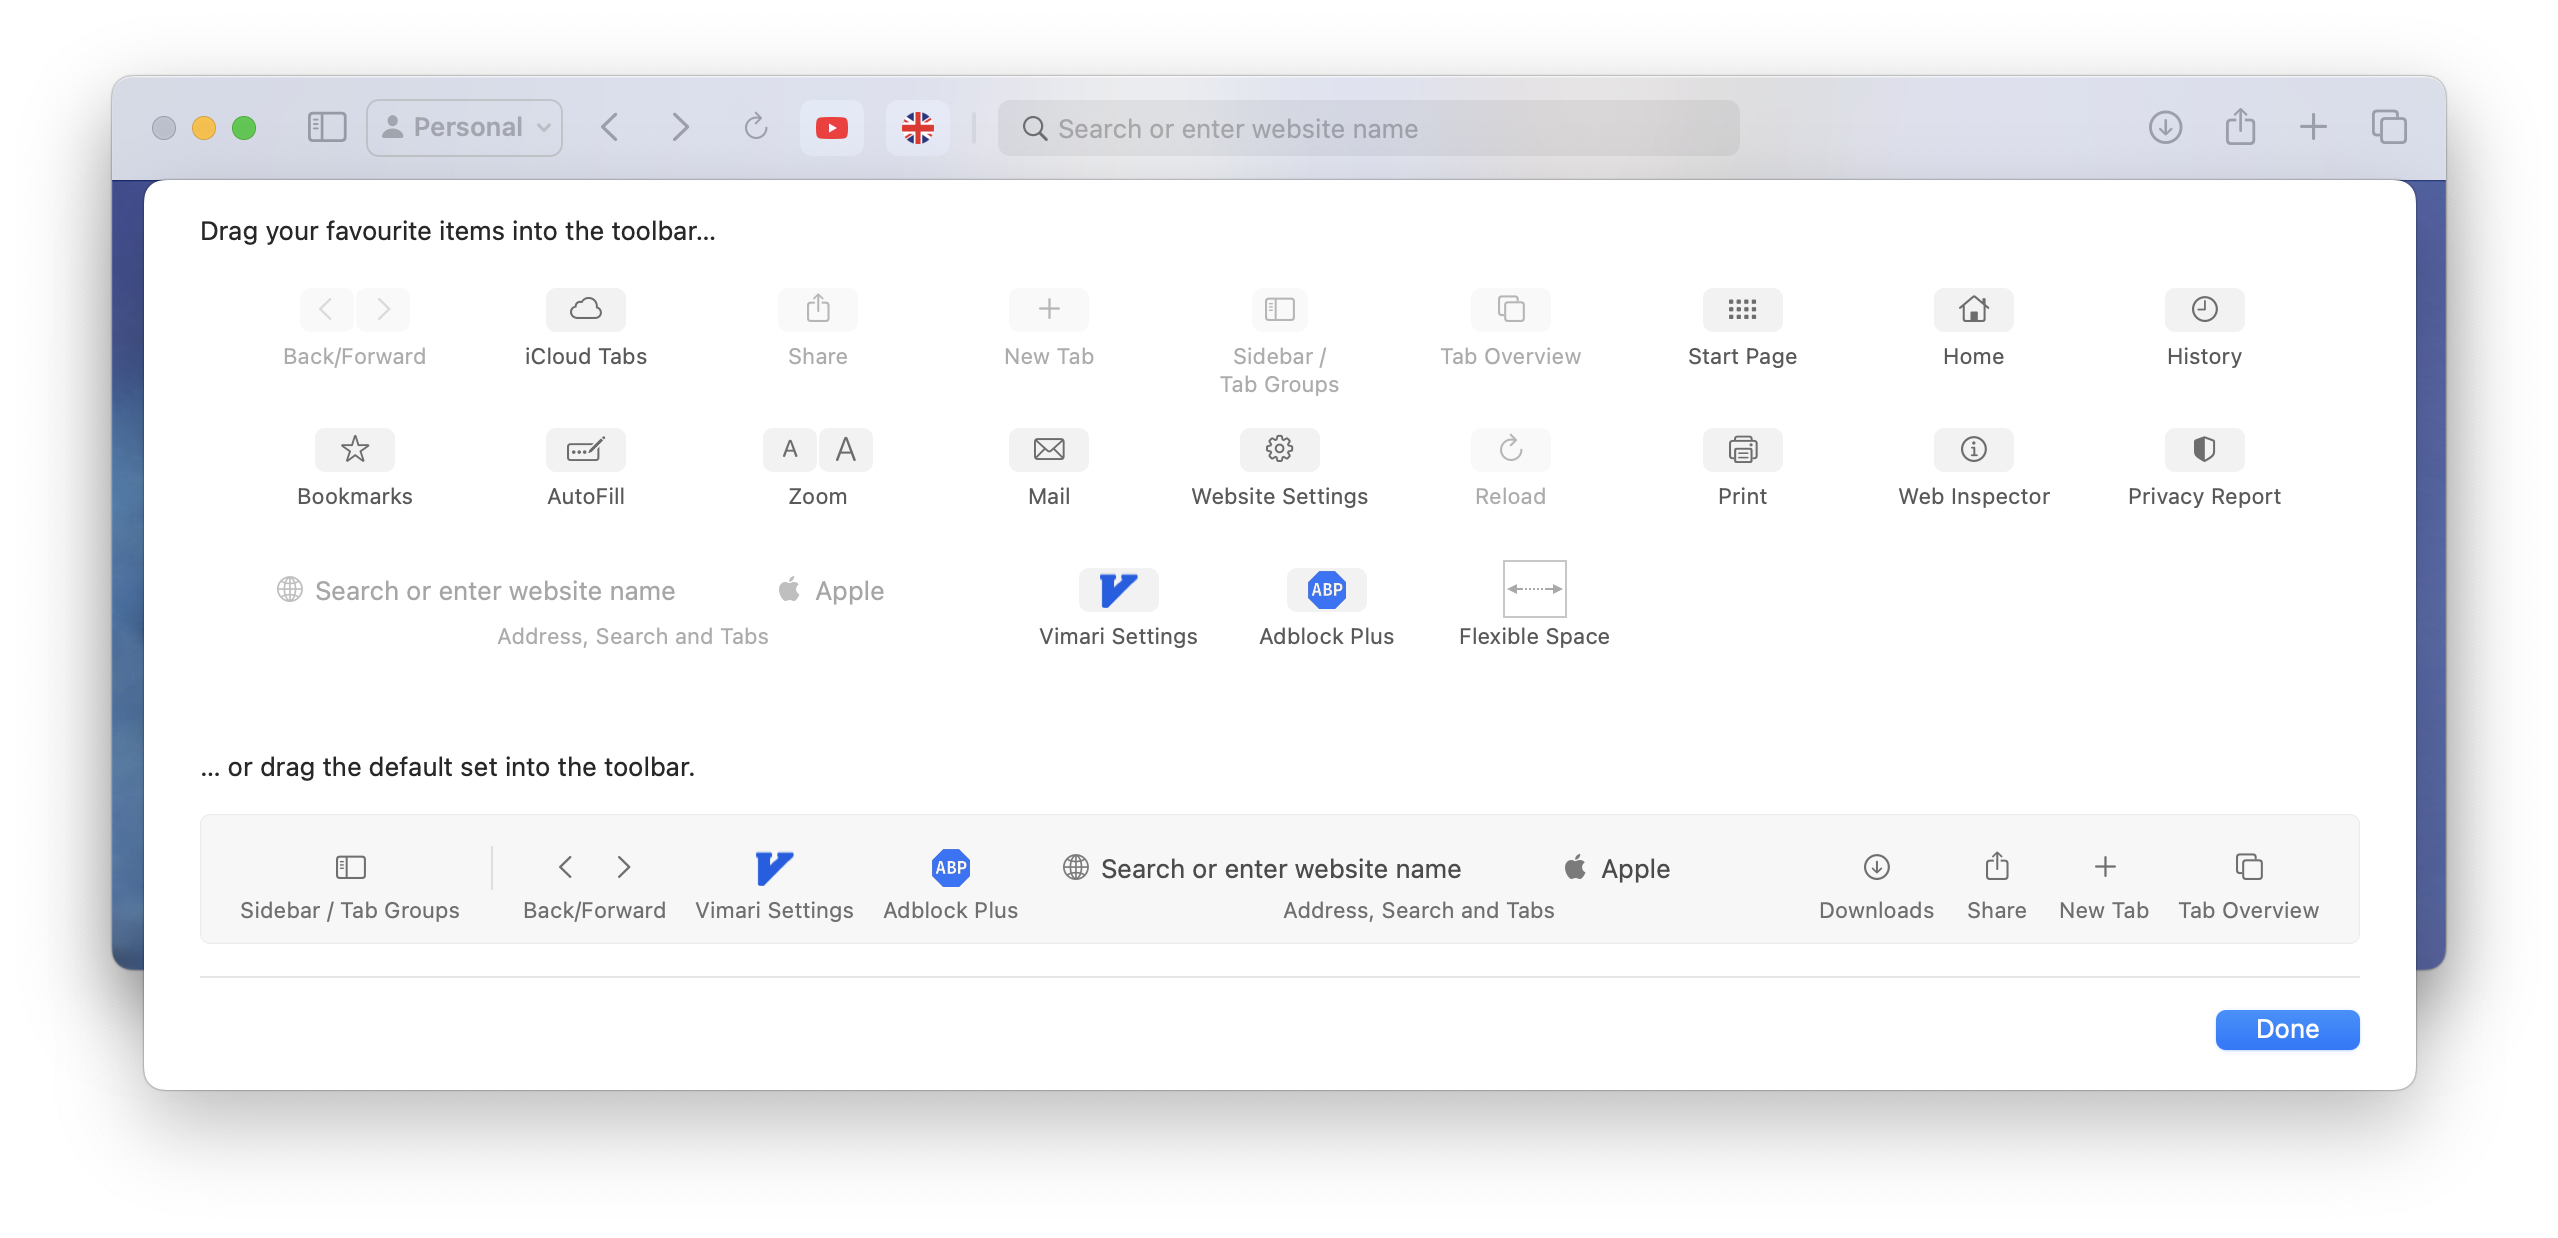
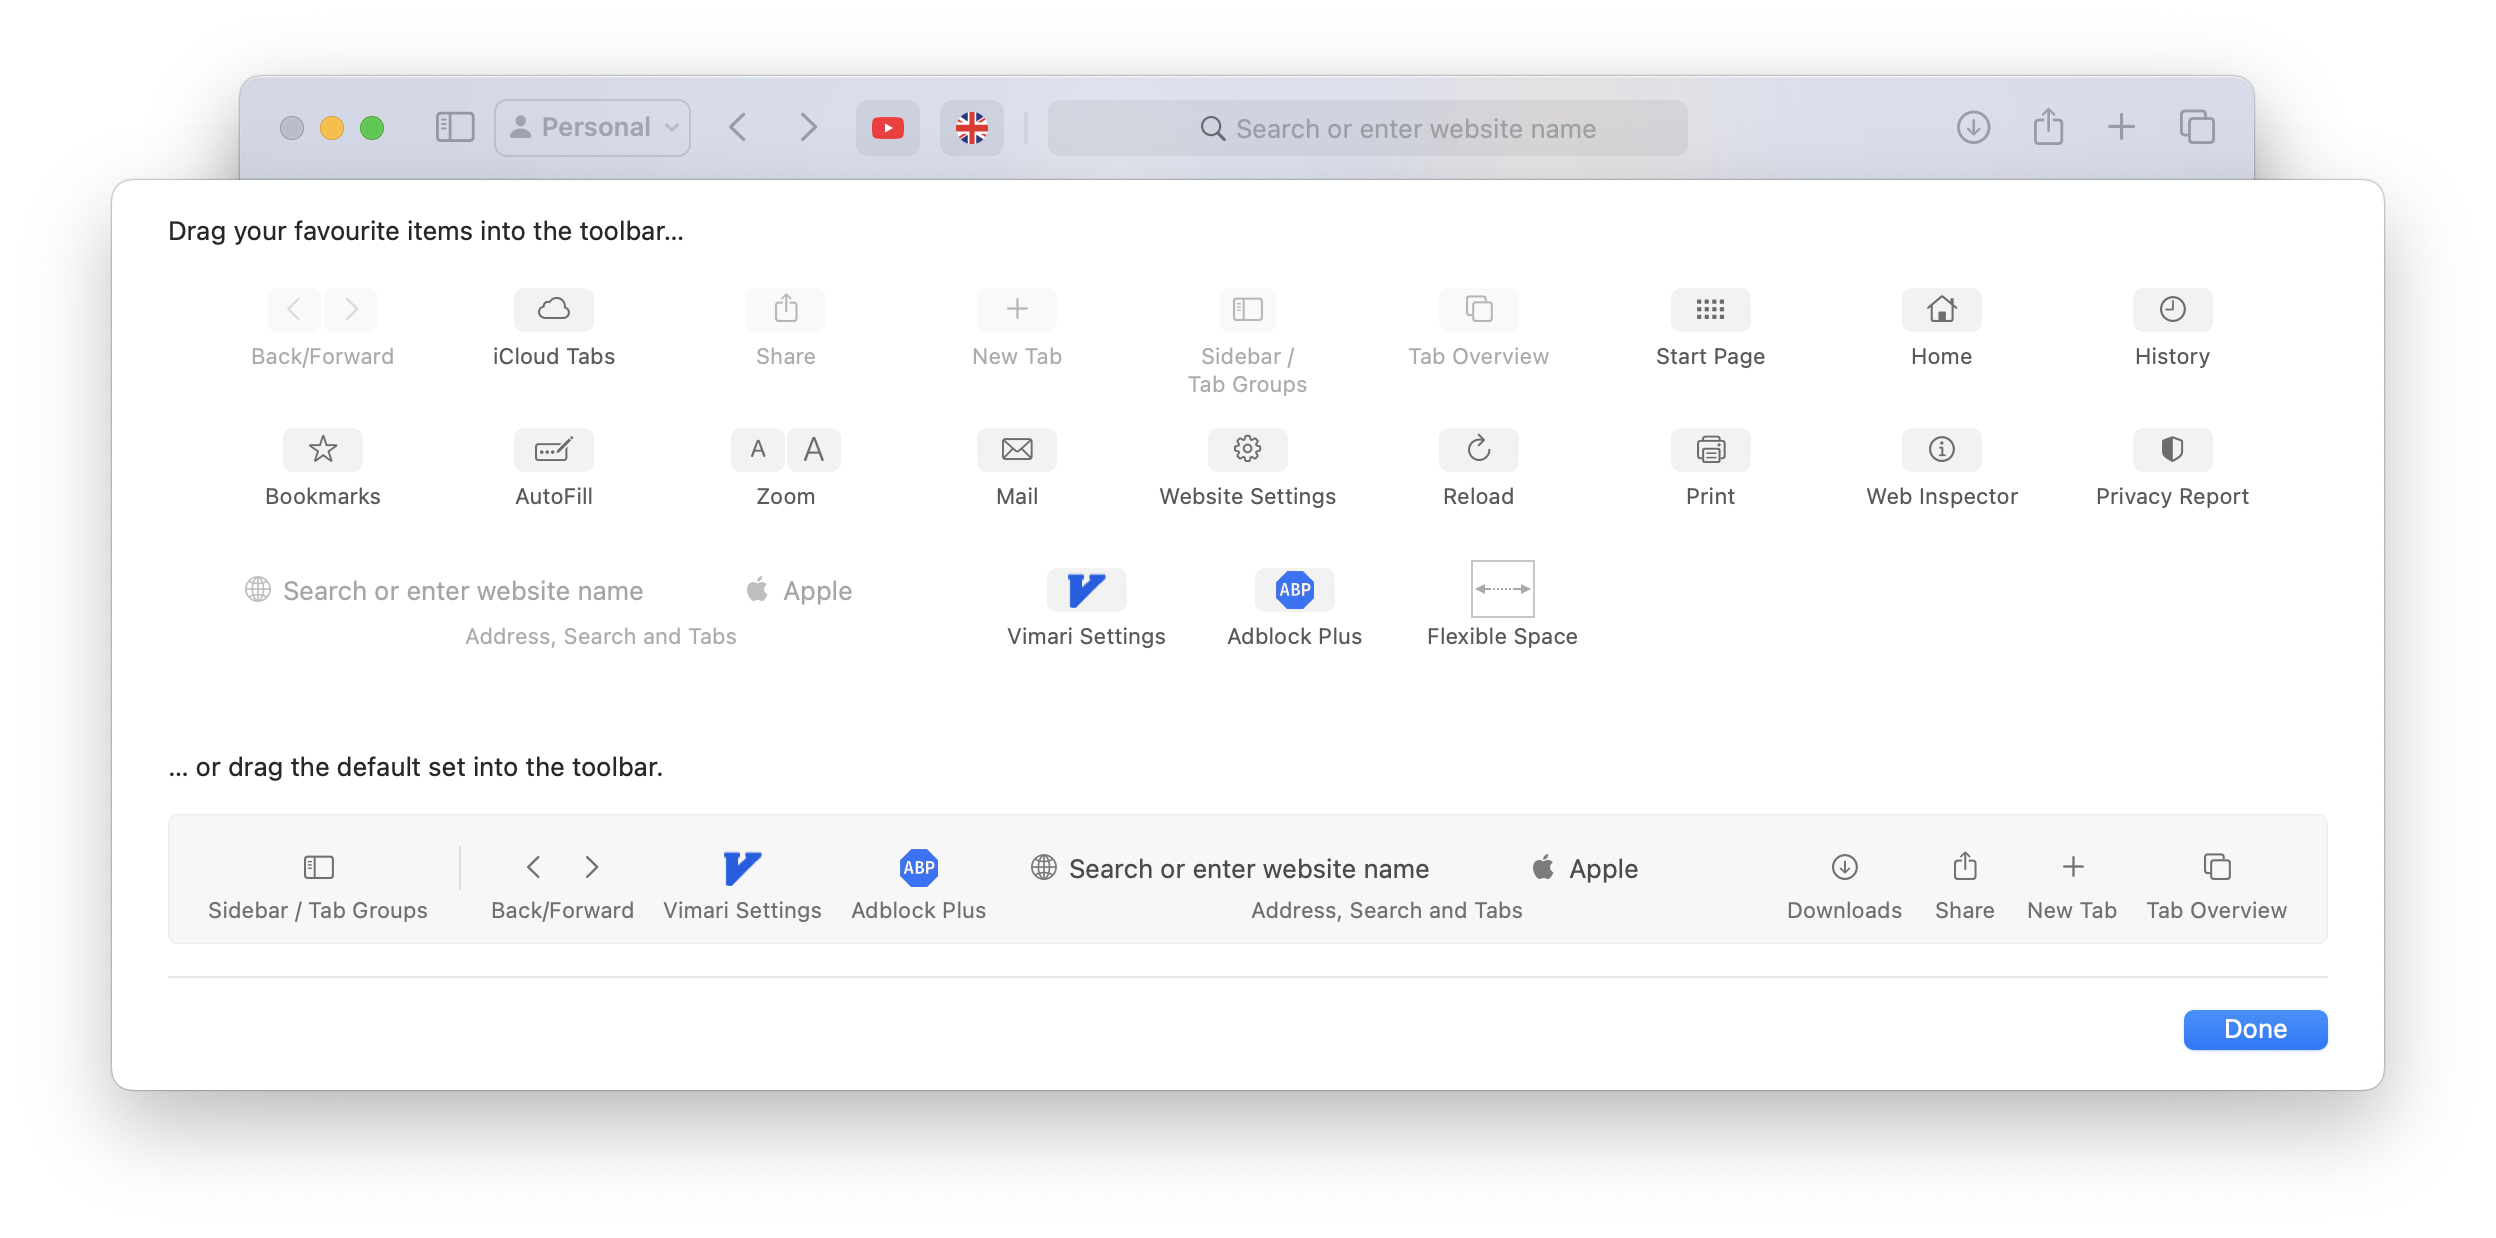
w

diff --git a/SETTINGS.MD b/SETTINGS.MD
@@ -171,6 +171,6 @@
 
 ### Toolbar
 
-Нажимаем правой кнопкой в верхней части браузера и убираем всё лишнее. Ненужные элементы можно удалять с тулбара а нужные добалять (но там особо ничего не нужно, кроме кнопки перезагрузки страницы)
+Нажимаем правой кнопкой в верхней части браузера и убираем всё лишнее. Ненужные элементы можно удалять с тулбара а нужные добавлять (но там особо ничего не нужно)
 
 <img src="./images/safari-toolbar.png" width="700"/>
